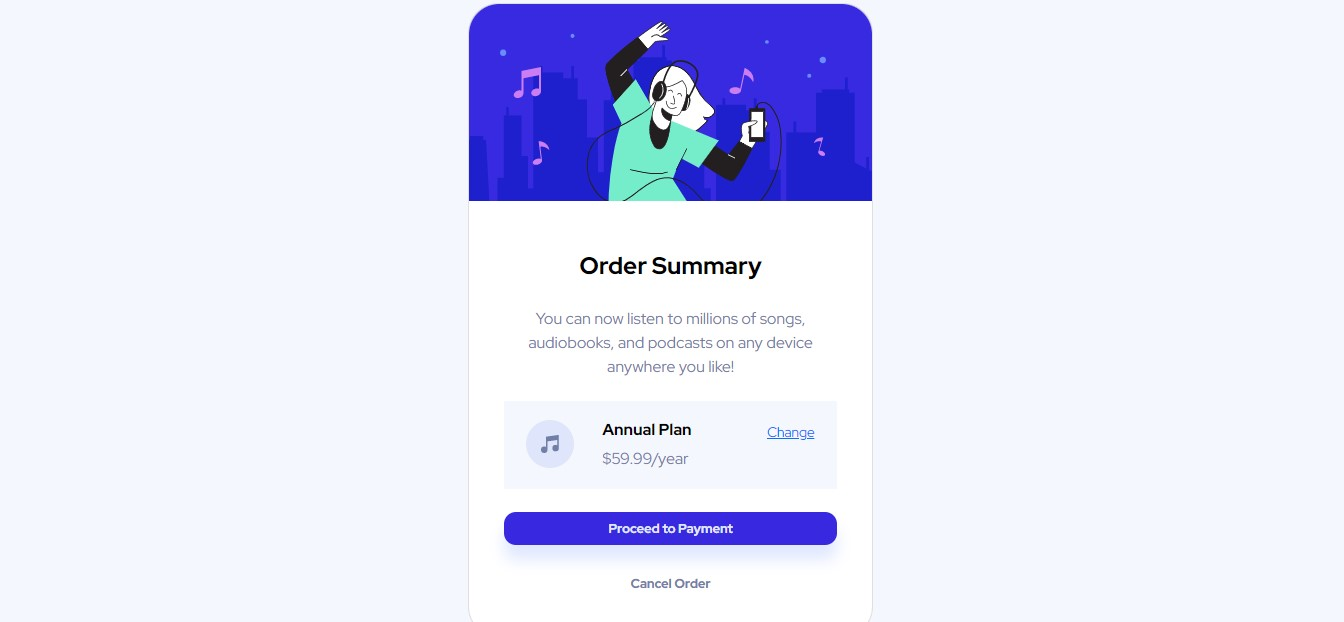
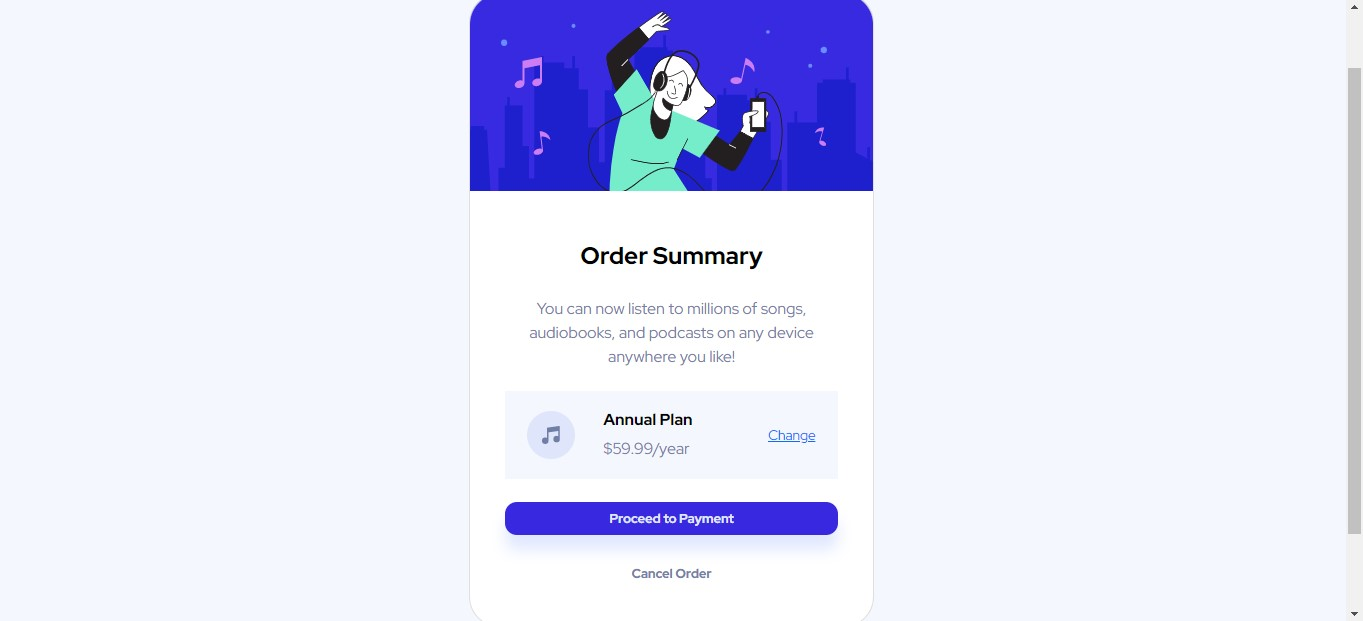
Add center align for link Change and change screenshot

diff --git a/index.html b/index.html
@@ -28,9 +28,9 @@
         device anywhere you like!</p>
 
         <div class="container">
-          <div class="row">
+          <div class="row align-items-center">
             <div class="col-3">
-              <img src="images/icon-music.svg" class="music-img" alt="">
+              <img src="images/icon-music.svg" alt="Music icon">
             </div>
             <div class="col-6">
               <div class="annual-plan">
